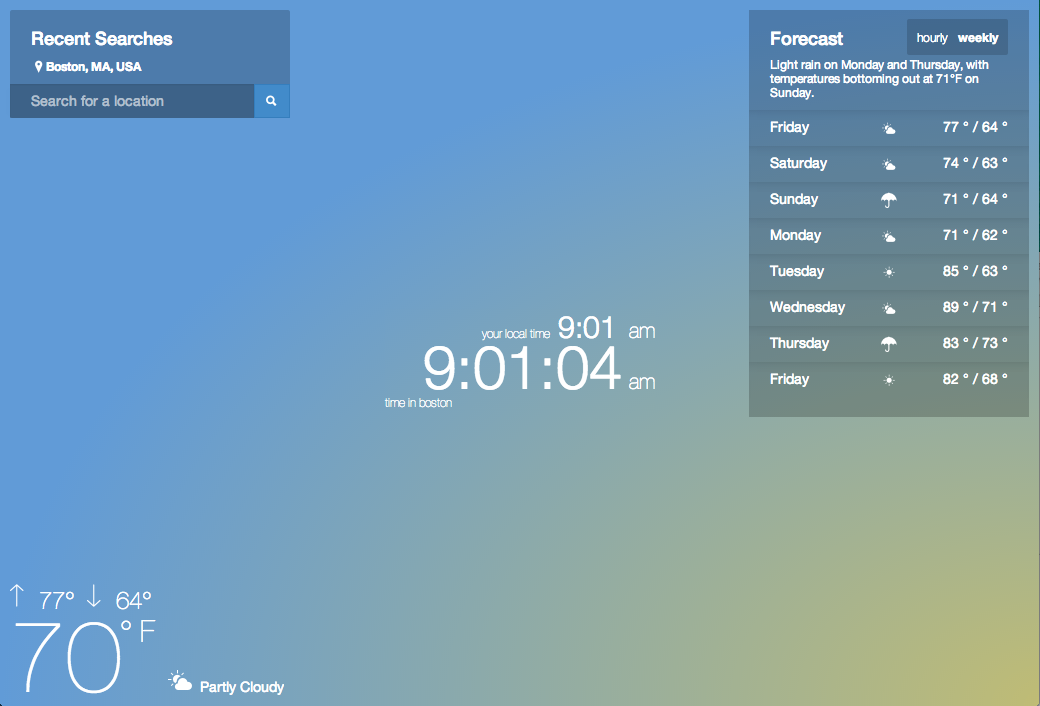
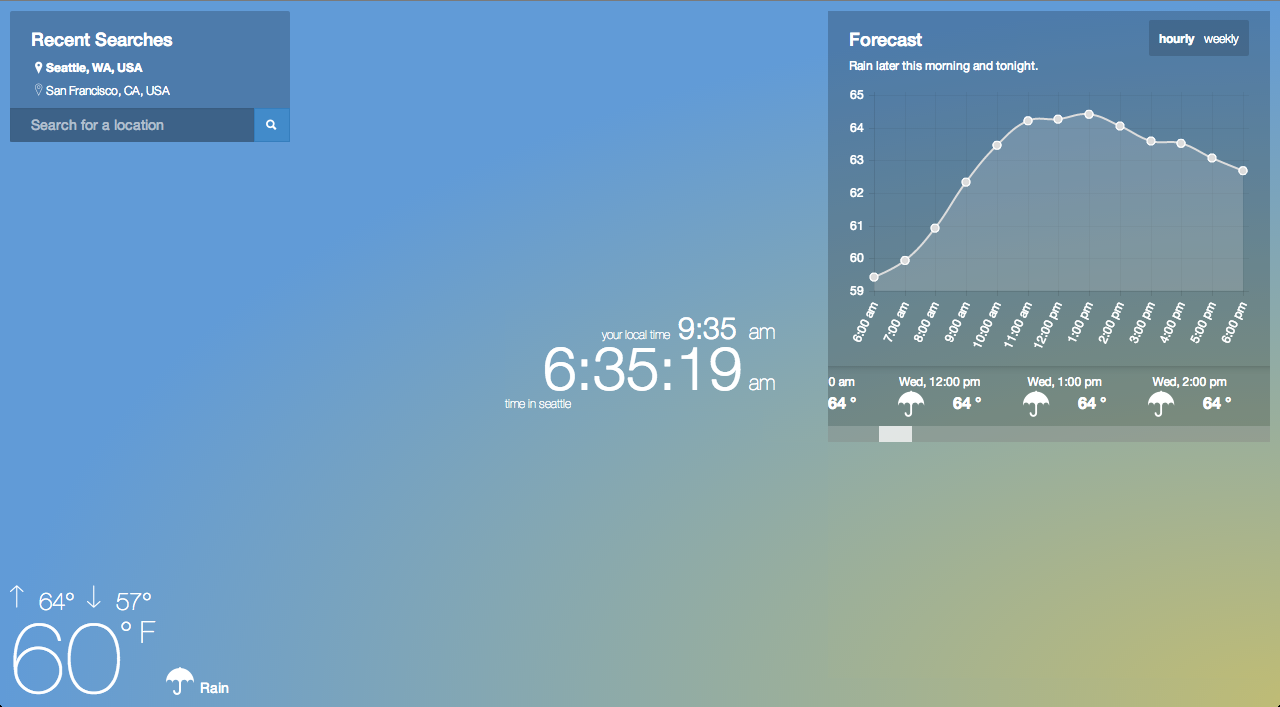
update docs to latest version.
update readme

update docs

diff --git a/README.md b/README.md
@@ -3,13 +3,18 @@ Another weather app built with a node + express + backbone + marionette stack.
 
 ## Core Features
 #### Search
-![Index Page](/docs/assets/index.png?raw=true "Index Page")
 Search for any location on the planet or for your current location.
+![Index Page](/docs/assets/index.png?raw=true "Index Page")
 
 #### Weather
+Get accurate forecast data for the week.
 ![Nighttime Weather](/docs/assets/night_weather.png?raw=true "Weather at night.")
-Get accurate forecast data for any location in the world.
+And for the day.
 ![Daytime Weather](/docs/assets/day_weather.png?raw=true "Weather during the day.")
+Search any location in the world.
+![Sunset Weather](/docs/assets/sunset_weather.png?raw=true "Weather during sunset.")
+![Sunrise Weather](/docs/assets/sunrise_weather.png?raw=true "Weather during sunrise.")
+
 
 ## Credits
 - [Forecast.io](https://developer.forecast.io/)
@@ -17,3 +22,5 @@ Get accurate forecast data for any location in the world.
 - [Express](http://expressjs.com/)
 - [Backbone](http://backbonejs.org/)
 - [Marionette](http://marionettejs.com/)
+- [SVG.js](http://svgjs.com)
+- [Chart.js](http://chartjs.org)
